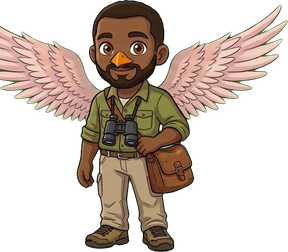
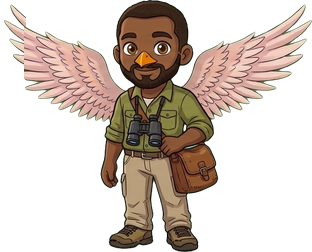
Yurii : aile gauche complétée sur son sprite
Claude-Session: https://claude.ai/code/session_014bi368SbjZ4sCSmbjCzFcj

diff --git a/npcs.js b/npcs.js
@@ -1,1 +1,1 @@
-window.NPCS={"maima": {"w": 347, "h": 253, "head": 3, "feet": 253, "cx": 181, "H": 52, "sc": 0.208, "src": "assets/npc3/maima.png"}, "maima_u": {"w": 359, "h": 254, "head": 4, "feet": 254, "cx": 190, "H": 52, "sc": 0.208, "src": "assets/npc3/maima_u.png"}, "maima_r": {"w": 270, "h": 276, "head": 25, "feet": 275, "cx": 206, "H": 52, "sc": 0.208, "src": "assets/npc3/maima_r.png"}, "maima_l": {"w": 270, "h": 276, "head": 25, "feet": 275, "cx": 64, "H": 52, "sc": 0.208, "src": "assets/npc3/maima_l.png"}, "maman": {"w": 225, "h": 255, "head": 5, "feet": 255, "cx": 111, "H": 56, "sc": 0.224, "src": "assets/npc3/maman.png"}, "maman_u": {"w": 223, "h": 255, "head": 5, "feet": 255, "cx": 118, "H": 56, "sc": 0.224, "src": "assets/npc3/maman_u.png"}, "maman_r": {"w": 178, "h": 259, "head": 8, "feet": 258, "cx": 119, "H": 56, "sc": 0.224, "src": "assets/npc3/maman_r.png"}, "maman_l": {"w": 178, "h": 259, "head": 8, "feet": 258, "cx": 59, "H": 56, "sc": 0.224, "src": "assets/npc3/maman_l.png"}, "pecheur": {"w": 368, "h": 255, "head": 4, "feet": 254, "cx": 201, "H": 60, "sc": 0.24, "src": "assets/npc3/pecheur.png"}, "pecheur_u": {"w": 249, "h": 252, "head": 2, "feet": 252, "cx": 128, "H": 60, "sc": 0.24, "src": "assets/npc3/pecheur_u.png"}, "pecheur_r": {"w": 260, "h": 252, "head": 2, "feet": 252, "cx": 132, "H": 60, "sc": 0.24, "src": "assets/npc3/pecheur_r.png"}, "pecheur_l": {"w": 260, "h": 252, "head": 2, "feet": 252, "cx": 128, "H": 60, "sc": 0.24, "src": "assets/npc3/pecheur_l.png"}, "gardien": {"w": 288, "h": 252, "head": 2, "feet": 252, "cx": 134, "H": 64, "sc": 0.256, "src": "assets/npc3/gardien.png"}, "gardien_u": {"w": 274, "h": 252, "head": 2, "feet": 252, "cx": 147, "H": 64, "sc": 0.256, "src": "assets/npc3/gardien_u.png"}, "gardien_r": {"w": 246, "h": 256, "head": 6, "feet": 256, "cx": 169, "H": 64, "sc": 0.256, "src": "assets/npc3/gardien_r.png"}, "gardien_l": {"w": 246, "h": 256, "head": 6, "feet": 256, "cx": 77, "H": 64, "sc": 0.256, "src": "assets/npc3/gardien_l.png"}, "kykah": {"w": 346, "h": 257, "head": 6, "feet": 256, "cx": 194, "H": 56, "sc": 0.224, "src": "assets/npc3/kykah.png"}, "kykah_u": {"w": 347, "h": 253, "head": 2, "feet": 252, "cx": 185, "H": 56, "sc": 0.224, "src": "assets/npc3/kykah_u.png"}, "kykah_r": {"w": 352, "h": 260, "head": 9, "feet": 259, "cx": 195, "H": 56, "sc": 0.224, "src": "assets/npc3/kykah_r.png"}, "kykah_l": {"w": 352, "h": 260, "head": 9, "feet": 259, "cx": 157, "H": 56, "sc": 0.224, "src": "assets/npc3/kykah_l.png"}, "poggi": {"w": 273, "h": 252, "head": 1, "feet": 251, "cx": 121, "H": 62, "sc": 0.248, "src": "assets/npc3/poggi.png"}, "poggi_u": {"w": 283, "h": 252, "head": 1, "feet": 251, "cx": 154, "H": 62, "sc": 0.248, "src": "assets/npc3/poggi_u.png"}, "poggi_r": {"w": 202, "h": 258, "head": 7, "feet": 257, "cx": 121, "H": 62, "sc": 0.248, "src": "assets/npc3/poggi_r.png"}, "poggi_l": {"w": 202, "h": 258, "head": 7, "feet": 257, "cx": 81, "H": 62, "sc": 0.248, "src": "assets/npc3/poggi_l.png"}, "soigneuse": {"w": 236, "h": 253, "head": 2, "feet": 252, "cx": 126, "H": 56, "sc": 0.224, "src": "assets/npc3/soigneuse.png"}, "soigneuse_u": {"w": 277, "h": 269, "head": 19, "feet": 269, "cx": 148, "H": 56, "sc": 0.224, "src": "assets/npc3/soigneuse_u.png"}, "soigneuse_r": {"w": 201, "h": 272, "head": 22, "feet": 272, "cx": 143, "H": 56, "sc": 0.224, "src": "assets/npc3/soigneuse_r.png"}, "soigneuse_l": {"w": 201, "h": 272, "head": 22, "feet": 272, "cx": 58, "H": 56, "sc": 0.224, "src": "assets/npc3/soigneuse_l.png"}, "juliana": {"w": 318, "h": 252, "head": 2, "feet": 252, "cx": 167, "H": 56, "sc": 0.224, "src": "assets/npc3/juliana.png"}, "juliana_u": {"w": 267, "h": 253, "head": 2, "feet": 252, "cx": 123, "H": 56, "sc": 0.224, "src": "assets/npc3/juliana_u.png"}, "juliana_r": {"w": 258, "h": 266, "head": 16, "feet": 266, "cx": 160, "H": 56, "sc": 0.224, "src": "assets/npc3/juliana_r.png"}, "juliana_l": {"w": 258, "h": 266, "head": 16, "feet": 266, "cx": 98, "H": 56, "sc": 0.224, "src": "assets/npc3/juliana_l.png"}, "frere": {"w": 257, "h": 252, "head": 1, "feet": 251, "cx": 129, "H": 34, "sc": 0.136, "src": "assets/npc3/frere.png"}, "frere_u": {"w": 267, "h": 254, "head": 3, "feet": 253, "cx": 130, "H": 34, "sc": 0.136, "src": "assets/npc3/frere_u.png"}, "frere_r": {"w": 189, "h": 254, "head": 3, "feet": 253, "cx": 128, "H": 34, "sc": 0.136, "src": "assets/npc3/frere_r.png"}, "frere_l": {"w": 189, "h": 254, "head": 3, "feet": 253, "cx": 61, "H": 34, "sc": 0.136, "src": "assets/npc3/frere_l.png"}, "lila": {"w": 267, "h": 266, "head": 15, "feet": 265, "cx": 139, "H": 44, "sc": 0.176, "src": "assets/npc3/lila.png"}, "lila_u": {"w": 251, "h": 255, "head": 5, "feet": 255, "cx": 125, "H": 44, "sc": 0.176, "src": "assets/npc3/lila_u.png"}, "lila_r": {"w": 181, "h": 256, "head": 5, "feet": 255, "cx": 119, "H": 44, "sc": 0.176, "src": "assets/npc3/lila_r.png"}, "lila_l": {"w": 181, "h": 256, "head": 5, "feet": 255, "cx": 62, "H": 44, "sc": 0.176, "src": "assets/npc3/lila_l.png"}, "romi": {"w": 315, "h": 252, "head": 2, "feet": 252, "cx": 163, "H": 55, "sc": 0.22, "src": "assets/npc3/romi.png"}, "romi_u": {"w": 296, "h": 252, "head": 2, "feet": 252, "cx": 155, "H": 55, "sc": 0.22, "src": "assets/npc3/romi_u.png"}, "romi_r": {"w": 228, "h": 262, "head": 12, "feet": 262, "cx": 155, "H": 55, "sc": 0.22, "src": "assets/npc3/romi_r.png"}, "romi_l": {"w": 228, "h": 262, "head": 12, "feet": 262, "cx": 73, "H": 55, "sc": 0.22, "src": "assets/npc3/romi_l.png"}, "kito": {"w": 312, "h": 290, "head": 39, "feet": 289, "cx": 173, "H": 22, "sc": 0.088, "src": "assets/npc3/kito.png"}, "kito_u": {"w": 359, "h": 253, "head": 2, "feet": 252, "cx": 188, "H": 22, "sc": 0.088, "src": "assets/npc3/kito_u.png"}, "kito_r": {"w": 320, "h": 295, "head": 44, "feet": 294, "cx": 173, "H": 22, "sc": 0.088, "src": "assets/npc3/kito_r.png"}, "kito_l": {"w": 320, "h": 295, "head": 44, "feet": 294, "cx": 147, "H": 22, "sc": 0.088, "src": "assets/npc3/kito_l.png"}, "kahn": {"w": 323, "h": 253, "head": 3, "feet": 253, "cx": 162, "H": 61, "sc": 0.244, "src": "assets/npc3/kahn.png"}, "kahn_u": {"w": 309, "h": 253, "head": 3, "feet": 253, "cx": 161, "H": 61, "sc": 0.244, "src": "assets/npc3/kahn_u.png"}, "kahn_r": {"w": 257, "h": 252, "head": 2, "feet": 252, "cx": 152, "H": 61, "sc": 0.244, "src": "assets/npc3/kahn_r.png"}, "kahn_l": {"w": 257, "h": 252, "head": 2, "feet": 252, "cx": 105, "H": 61, "sc": 0.244, "src": "assets/npc3/kahn_l.png"}, "kito_s0": {"w": 329, "h": 582, "head": 4, "feet": 578, "cx": 164, "H": 22, "sc": 0.0383, "src": "assets/npc3/kito_s0.png"}, "kito_s1": {"w": 326, "h": 569, "head": 4, "feet": 565, "cx": 163, "H": 22, "sc": 0.0392, "src": "assets/npc3/kito_s1.png"}, "kito_s2": {"w": 338, "h": 562, "head": 4, "feet": 558, "cx": 169, "H": 22, "sc": 0.0397, "src": "assets/npc3/kito_s2.png"}, "kykah_k": {"w": 199, "h": 256, "head": 0, "feet": 256, "cx": 101, "H": 56, "sc": 0.224, "src": "assets/npc3/kykah_k.png"}, "kykah_k_u": {"w": 171, "h": 256, "head": 0, "feet": 256, "cx": 88, "H": 56, "sc": 0.224, "src": "assets/npc3/kykah_k_u.png"}, "kykah_k_r": {"w": 157, "h": 256, "head": 0, "feet": 256, "cx": 67, "H": 56, "sc": 0.224, "src": "assets/npc3/kykah_k_r.png"}, "kykah_k_l": {"w": 157, "h": 256, "head": 0, "feet": 256, "cx": 90, "H": 56, "sc": 0.224, "src": "assets/npc3/kykah_k_l.png"}, "maman_k": {"w": 239, "h": 256, "head": 0, "feet": 256, "cx": 114, "H": 56, "sc": 0.224, "src": "assets/npc3/maman_k.png"}, "maman_k_u": {"w": 231, "h": 256, "head": 0, "feet": 256, "cx": 123, "H": 56, "sc": 0.224, "src": "assets/npc3/maman_k_u.png"}, "maman_k_r": {"w": 207, "h": 256, "head": 0, "feet": 256, "cx": 119, "H": 56, "sc": 0.224, "src": "assets/npc3/maman_k_r.png"}, "maman_k_l": {"w": 207, "h": 256, "head": 0, "feet": 256, "cx": 88, "H": 56, "sc": 0.224, "src": "assets/npc3/maman_k_l.png"}};
+window.NPCS={"maima": {"w": 347, "h": 253, "head": 3, "feet": 253, "cx": 181, "H": 52, "sc": 0.208, "src": "assets/npc3/maima.png"}, "maima_u": {"w": 359, "h": 254, "head": 4, "feet": 254, "cx": 190, "H": 52, "sc": 0.208, "src": "assets/npc3/maima_u.png"}, "maima_r": {"w": 270, "h": 276, "head": 25, "feet": 275, "cx": 206, "H": 52, "sc": 0.208, "src": "assets/npc3/maima_r.png"}, "maima_l": {"w": 270, "h": 276, "head": 25, "feet": 275, "cx": 64, "H": 52, "sc": 0.208, "src": "assets/npc3/maima_l.png"}, "maman": {"w": 225, "h": 255, "head": 5, "feet": 255, "cx": 111, "H": 56, "sc": 0.224, "src": "assets/npc3/maman.png"}, "maman_u": {"w": 223, "h": 255, "head": 5, "feet": 255, "cx": 118, "H": 56, "sc": 0.224, "src": "assets/npc3/maman_u.png"}, "maman_r": {"w": 178, "h": 259, "head": 8, "feet": 258, "cx": 119, "H": 56, "sc": 0.224, "src": "assets/npc3/maman_r.png"}, "maman_l": {"w": 178, "h": 259, "head": 8, "feet": 258, "cx": 59, "H": 56, "sc": 0.224, "src": "assets/npc3/maman_l.png"}, "pecheur": {"w": 368, "h": 255, "head": 4, "feet": 254, "cx": 201, "H": 60, "sc": 0.24, "src": "assets/npc3/pecheur.png"}, "pecheur_u": {"w": 249, "h": 252, "head": 2, "feet": 252, "cx": 128, "H": 60, "sc": 0.24, "src": "assets/npc3/pecheur_u.png"}, "pecheur_r": {"w": 260, "h": 252, "head": 2, "feet": 252, "cx": 132, "H": 60, "sc": 0.24, "src": "assets/npc3/pecheur_r.png"}, "pecheur_l": {"w": 260, "h": 252, "head": 2, "feet": 252, "cx": 128, "H": 60, "sc": 0.24, "src": "assets/npc3/pecheur_l.png"}, "gardien": {"w": 312, "h": 252, "head": 2, "feet": 252, "cx": 158, "H": 64, "sc": 0.256, "src": "assets/npc3/gardien.png"}, "gardien_u": {"w": 278, "h": 252, "head": 2, "feet": 252, "cx": 151, "H": 64, "sc": 0.256, "src": "assets/npc3/gardien_u.png"}, "gardien_r": {"w": 246, "h": 256, "head": 6, "feet": 256, "cx": 169, "H": 64, "sc": 0.256, "src": "assets/npc3/gardien_r.png"}, "gardien_l": {"w": 246, "h": 256, "head": 6, "feet": 256, "cx": 77, "H": 64, "sc": 0.256, "src": "assets/npc3/gardien_l.png"}, "kykah": {"w": 346, "h": 257, "head": 6, "feet": 256, "cx": 194, "H": 56, "sc": 0.224, "src": "assets/npc3/kykah.png"}, "kykah_u": {"w": 347, "h": 253, "head": 2, "feet": 252, "cx": 185, "H": 56, "sc": 0.224, "src": "assets/npc3/kykah_u.png"}, "kykah_r": {"w": 352, "h": 260, "head": 9, "feet": 259, "cx": 195, "H": 56, "sc": 0.224, "src": "assets/npc3/kykah_r.png"}, "kykah_l": {"w": 352, "h": 260, "head": 9, "feet": 259, "cx": 157, "H": 56, "sc": 0.224, "src": "assets/npc3/kykah_l.png"}, "poggi": {"w": 273, "h": 252, "head": 1, "feet": 251, "cx": 121, "H": 62, "sc": 0.248, "src": "assets/npc3/poggi.png"}, "poggi_u": {"w": 283, "h": 252, "head": 1, "feet": 251, "cx": 154, "H": 62, "sc": 0.248, "src": "assets/npc3/poggi_u.png"}, "poggi_r": {"w": 202, "h": 258, "head": 7, "feet": 257, "cx": 121, "H": 62, "sc": 0.248, "src": "assets/npc3/poggi_r.png"}, "poggi_l": {"w": 202, "h": 258, "head": 7, "feet": 257, "cx": 81, "H": 62, "sc": 0.248, "src": "assets/npc3/poggi_l.png"}, "soigneuse": {"w": 236, "h": 253, "head": 2, "feet": 252, "cx": 126, "H": 56, "sc": 0.224, "src": "assets/npc3/soigneuse.png"}, "soigneuse_u": {"w": 277, "h": 269, "head": 19, "feet": 269, "cx": 148, "H": 56, "sc": 0.224, "src": "assets/npc3/soigneuse_u.png"}, "soigneuse_r": {"w": 201, "h": 272, "head": 22, "feet": 272, "cx": 143, "H": 56, "sc": 0.224, "src": "assets/npc3/soigneuse_r.png"}, "soigneuse_l": {"w": 201, "h": 272, "head": 22, "feet": 272, "cx": 58, "H": 56, "sc": 0.224, "src": "assets/npc3/soigneuse_l.png"}, "juliana": {"w": 318, "h": 252, "head": 2, "feet": 252, "cx": 167, "H": 56, "sc": 0.224, "src": "assets/npc3/juliana.png"}, "juliana_u": {"w": 267, "h": 253, "head": 2, "feet": 252, "cx": 123, "H": 56, "sc": 0.224, "src": "assets/npc3/juliana_u.png"}, "juliana_r": {"w": 258, "h": 266, "head": 16, "feet": 266, "cx": 160, "H": 56, "sc": 0.224, "src": "assets/npc3/juliana_r.png"}, "juliana_l": {"w": 258, "h": 266, "head": 16, "feet": 266, "cx": 98, "H": 56, "sc": 0.224, "src": "assets/npc3/juliana_l.png"}, "frere": {"w": 257, "h": 252, "head": 1, "feet": 251, "cx": 129, "H": 34, "sc": 0.136, "src": "assets/npc3/frere.png"}, "frere_u": {"w": 267, "h": 254, "head": 3, "feet": 253, "cx": 130, "H": 34, "sc": 0.136, "src": "assets/npc3/frere_u.png"}, "frere_r": {"w": 189, "h": 254, "head": 3, "feet": 253, "cx": 128, "H": 34, "sc": 0.136, "src": "assets/npc3/frere_r.png"}, "frere_l": {"w": 189, "h": 254, "head": 3, "feet": 253, "cx": 61, "H": 34, "sc": 0.136, "src": "assets/npc3/frere_l.png"}, "lila": {"w": 267, "h": 266, "head": 15, "feet": 265, "cx": 139, "H": 44, "sc": 0.176, "src": "assets/npc3/lila.png"}, "lila_u": {"w": 251, "h": 255, "head": 5, "feet": 255, "cx": 125, "H": 44, "sc": 0.176, "src": "assets/npc3/lila_u.png"}, "lila_r": {"w": 181, "h": 256, "head": 5, "feet": 255, "cx": 119, "H": 44, "sc": 0.176, "src": "assets/npc3/lila_r.png"}, "lila_l": {"w": 181, "h": 256, "head": 5, "feet": 255, "cx": 62, "H": 44, "sc": 0.176, "src": "assets/npc3/lila_l.png"}, "romi": {"w": 315, "h": 252, "head": 2, "feet": 252, "cx": 163, "H": 55, "sc": 0.22, "src": "assets/npc3/romi.png"}, "romi_u": {"w": 296, "h": 252, "head": 2, "feet": 252, "cx": 155, "H": 55, "sc": 0.22, "src": "assets/npc3/romi_u.png"}, "romi_r": {"w": 228, "h": 262, "head": 12, "feet": 262, "cx": 155, "H": 55, "sc": 0.22, "src": "assets/npc3/romi_r.png"}, "romi_l": {"w": 228, "h": 262, "head": 12, "feet": 262, "cx": 73, "H": 55, "sc": 0.22, "src": "assets/npc3/romi_l.png"}, "kito": {"w": 312, "h": 290, "head": 39, "feet": 289, "cx": 173, "H": 22, "sc": 0.088, "src": "assets/npc3/kito.png"}, "kito_u": {"w": 359, "h": 253, "head": 2, "feet": 252, "cx": 188, "H": 22, "sc": 0.088, "src": "assets/npc3/kito_u.png"}, "kito_r": {"w": 320, "h": 295, "head": 44, "feet": 294, "cx": 173, "H": 22, "sc": 0.088, "src": "assets/npc3/kito_r.png"}, "kito_l": {"w": 320, "h": 295, "head": 44, "feet": 294, "cx": 147, "H": 22, "sc": 0.088, "src": "assets/npc3/kito_l.png"}, "kahn": {"w": 323, "h": 253, "head": 3, "feet": 253, "cx": 162, "H": 61, "sc": 0.244, "src": "assets/npc3/kahn.png"}, "kahn_u": {"w": 309, "h": 253, "head": 3, "feet": 253, "cx": 161, "H": 61, "sc": 0.244, "src": "assets/npc3/kahn_u.png"}, "kahn_r": {"w": 257, "h": 252, "head": 2, "feet": 252, "cx": 152, "H": 61, "sc": 0.244, "src": "assets/npc3/kahn_r.png"}, "kahn_l": {"w": 257, "h": 252, "head": 2, "feet": 252, "cx": 105, "H": 61, "sc": 0.244, "src": "assets/npc3/kahn_l.png"}, "kito_s0": {"w": 329, "h": 582, "head": 4, "feet": 578, "cx": 164, "H": 22, "sc": 0.0383, "src": "assets/npc3/kito_s0.png"}, "kito_s1": {"w": 326, "h": 569, "head": 4, "feet": 565, "cx": 163, "H": 22, "sc": 0.0392, "src": "assets/npc3/kito_s1.png"}, "kito_s2": {"w": 338, "h": 562, "head": 4, "feet": 558, "cx": 169, "H": 22, "sc": 0.0397, "src": "assets/npc3/kito_s2.png"}, "kykah_k": {"w": 199, "h": 256, "head": 0, "feet": 256, "cx": 101, "H": 56, "sc": 0.224, "src": "assets/npc3/kykah_k.png"}, "kykah_k_u": {"w": 171, "h": 256, "head": 0, "feet": 256, "cx": 88, "H": 56, "sc": 0.224, "src": "assets/npc3/kykah_k_u.png"}, "kykah_k_r": {"w": 157, "h": 256, "head": 0, "feet": 256, "cx": 67, "H": 56, "sc": 0.224, "src": "assets/npc3/kykah_k_r.png"}, "kykah_k_l": {"w": 157, "h": 256, "head": 0, "feet": 256, "cx": 90, "H": 56, "sc": 0.224, "src": "assets/npc3/kykah_k_l.png"}, "maman_k": {"w": 239, "h": 256, "head": 0, "feet": 256, "cx": 114, "H": 56, "sc": 0.224, "src": "assets/npc3/maman_k.png"}, "maman_k_u": {"w": 231, "h": 256, "head": 0, "feet": 256, "cx": 123, "H": 56, "sc": 0.224, "src": "assets/npc3/maman_k_u.png"}, "maman_k_r": {"w": 207, "h": 256, "head": 0, "feet": 256, "cx": 119, "H": 56, "sc": 0.224, "src": "assets/npc3/maman_k_r.png"}, "maman_k_l": {"w": 207, "h": 256, "head": 0, "feet": 256, "cx": 88, "H": 56, "sc": 0.224, "src": "assets/npc3/maman_k_l.png"}};

diff --git a/index.html b/index.html
@@ -1137,12 +1137,12 @@
 <script src="packs.js"></script>
 <script src="data.js"></script>
 <script src="grass.js"></script>
-<script src="npcs.js?v=77"></script>
+<script src="npcs.js?v=86"></script>
 <script src="myah.js"></script>
 <script src="mymask.js"></script>
 <script src="sprites.js"></script>
 <script src="art.js"></script>
-<script src="game.js?v=85"></script>
+<script src="game.js?v=86"></script>
 </body>
 </html>
 
